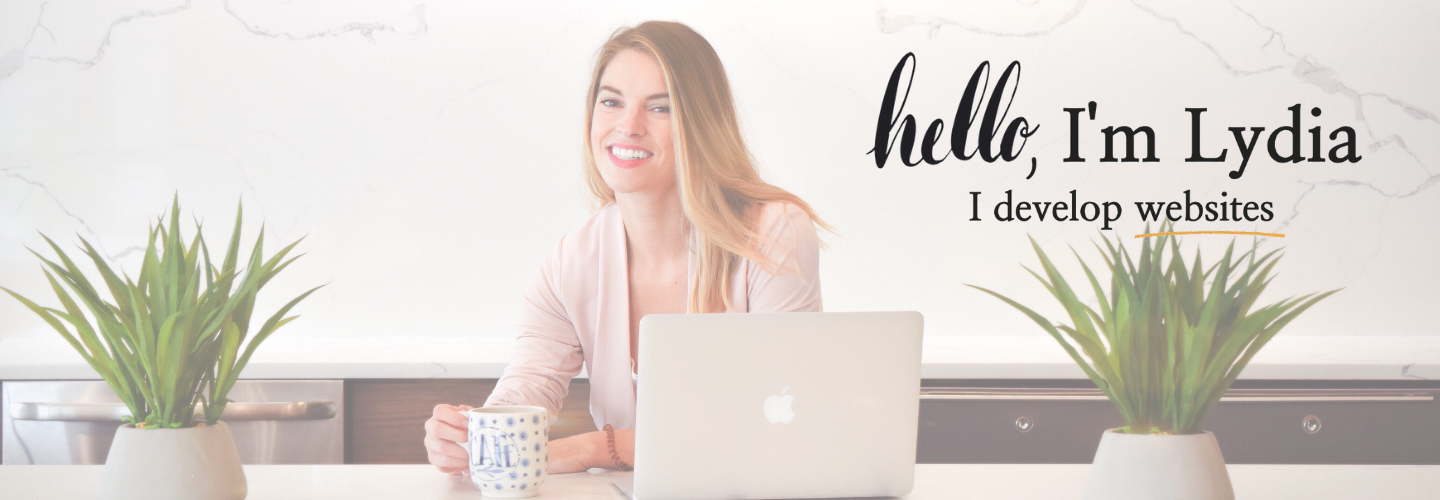
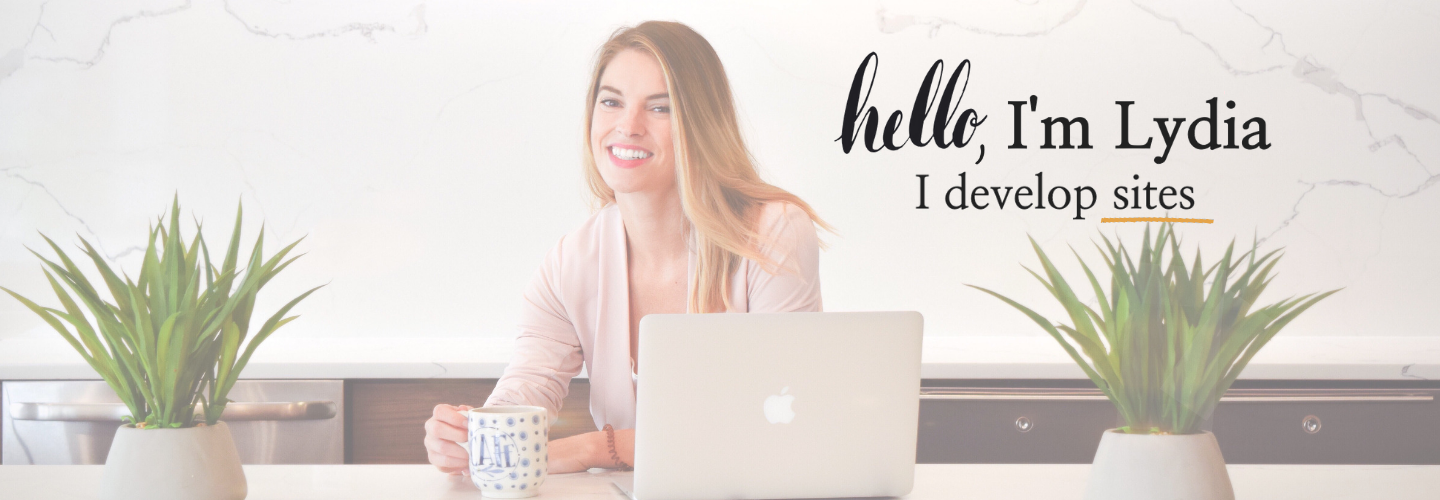
updates per Bloc checkpoint notes

Changed region(s): [[0.5625, 0.09, 0.9688, 0.48]]

diff --git a/index.html b/index.html
@@ -5,9 +5,10 @@
     <link rel="icon" href="./resources/logo-orange.png" type="image/png">
     <meta name="viewport" content="width=device-width, initial-scale=1">
     <link rel="stylesheet" type="text/css" href="https://cdnjs.cloudflare.com/ajax/libs/normalize/6.0.0/normalize.css">
-    <link href="https://fonts.googleapis.com/css?family=Nanum+Myeongjo:400,800|Open+Sans&display=swap" rel="stylesheet">
+    <link href="https://fonts.googleapis.com/css?family=Nanum+Myeongjo:400,700,800&display=swap" rel="stylesheet">
+    <link href="https://fonts.googleapis.com/css?family=Open+Sans:400,700,800&display=swap" rel="stylesheet">
     <link rel="stylesheet" type="text/css" href="main.css">
-    <link rel="stylesheet" type="text/css" href="hamburger.css">
+    <link rel="stylesheet" type="text/css" href="navigation.css">
     <script src="https://code.jquery.com/jquery-1.10.2.js"></script>
     <script src="index.js"></script>
 </head>
@@ -15,7 +16,7 @@
     <nav role="navigation" class="nav">
       <img class="logo" src="./resources/logo-simple.png" alt="logo displaying letters L and H"/>
       <input class="menu-btn" type="checkbox" id="menu-btn"/>
-      <label class="menu-icon" for="menu-btn" role="checkbox"><span class="hide">Open nav menu</span><span class="navicon"></span></label>
+      <label class="menu-icon" for="menu-btn"><span class="hide">Open nav menu</span><span class="navicon"></span></label>
       <ul class="nav-content">
         <li>Welcome!<hr></li>
         <li><a href="#about" class="internal-link">About</a></li>
@@ -24,14 +25,14 @@
         <li><a href="#contact" class="internal-link">Contact</a></li>
       </ul>
     </nav>
-    <main role="main" id="top">
-        <header role="banner">
+    <main id="top">
+        <header>
         </header>
         <section id="about">
           <div class="content white">
             <h1 class="section-title">lydia hendriks</h1>
             <hr>
-            <p class="emphasis">I'm about creating <span class="uppercase bolder">stunning + efficient</span> websites that are <span class="italic orange">natural + fun</span> to interact with. Using <span class="uppercase bolder">powerful backend-tech</span> to keep websites <span class="italic orange">clean + maintainable</span>.
+            <p class="emphasis">I'm about creating <span class="uppercase bolder">stunning + efficient</span> sites that are <span class="italic orange">natural + fun</span> to interact with. Using <span class="uppercase bolder">modern</span> web technologies to keep sites <span class="italic orange">clean + maintainable</span>.
             <hr>
             <p>I'm a full stack developer based out of Tampa, FL. I love bringing life to stunning designs that promote a fluid user experience.</p>
             <p>My background is in management consulting, which gave me ample experience working with stakeholders to understand business needs and design solutions. I repeatedly saw that 1.) web applications were the answers to many of my clients' problems and 2.) many organizations are in <span class="italic">desperate need</span> of more web capabilities.</p>
@@ -104,10 +105,11 @@
         <section id="contact" class="cta">
             <h2>Want to work together?</h2>
             <p class="subtext">I'd love to chat.</p>
-            <a href="mailto:hendriks.lydia@gmail.com"><button class="btn contact js-contact-show">Contact &#8594;</button></a>
+            <a class="btn contact" href="mailto:hendriks.lydia@gmail.com">Contact &#8594;</a>
 
 
             <!--Contact form to be implemented later-->
+            <!-- <button class="btn contact js-contact-show">Contact &#8594;</button> -->
             <!-- <div id="contact-form" class="contact-form">
               <button type="button" class="close">x close</button>
               <h2 class="section-title">Contact</h2>

diff --git a/main.css b/main.css
@@ -20,7 +20,7 @@ body {
 
 header {
   position: relative;
-  background-image: url('./resources/bg-300x200.png');
+  background-image: url('./resources/bg-1440x500.png');
   background-repeat: no-repeat;
   background-size: cover;
   width: 100%;
@@ -113,6 +113,14 @@ ul.portfolio li {
 ul li.portfolio-links {
   margin-top: 16px;
   margin-bottom: 16px;
+  display: block;
+  width: 150px;
+}
+
+li .portfolio-links .btn {
+  display: block;
+  margin-bottom: 8px;
+  width: 150px;
 }
 
 .btn, button.submit {
@@ -140,7 +148,7 @@ ul li.portfolio-links {
 }
 
 
-.cta button.btn{
+.cta a.btn{
   font-size: 16px;
   /* width: 75%; */
 }
@@ -149,7 +157,7 @@ ul li.portfolio-links {
   font-size: 22px;
 }
 
-button.contact {
+a.contact {
   background-color: #000;
   color: #fff;
   border-color: white;
@@ -370,7 +378,7 @@ button {
 
 
 /*----------CSS for tablets--------------*/
-@media only screen and (min-width: 420px) {
+@media only screen and (min-width: 500px) {
   header {
     height: 300px;
   }

diff --git a/index.js b/index.js
@@ -103,7 +103,6 @@ hideArrowButtons(slideIndex);
 
 //Updates index based on button parameter, then updates image
 function updateImage(button) {
-  console.log('PresentImage called with button ' + button);
 
   //Update necessary elements of active index
   imageArray[slideIndex].show();
@@ -177,7 +176,6 @@ function scrollToAnchors(){
   $("a[href^=#].internal-link").click(function(e) {
     e.preventDefault();
     var dest = $(this).attr('href');
-    console.log(dest);
     $('html,body').animate({ scrollTop: $(dest).offset().top-100 }, 'slow');
   });
 }

diff --git a/navigation.css b/navigation.css
@@ -163,6 +163,7 @@ ul.nav-content>li:first-child {
    border: 2px solid #E5A449;
    border-radius: 4px;
    background-color: white;
+   padding: 2px 6px;
  }
 
 }
